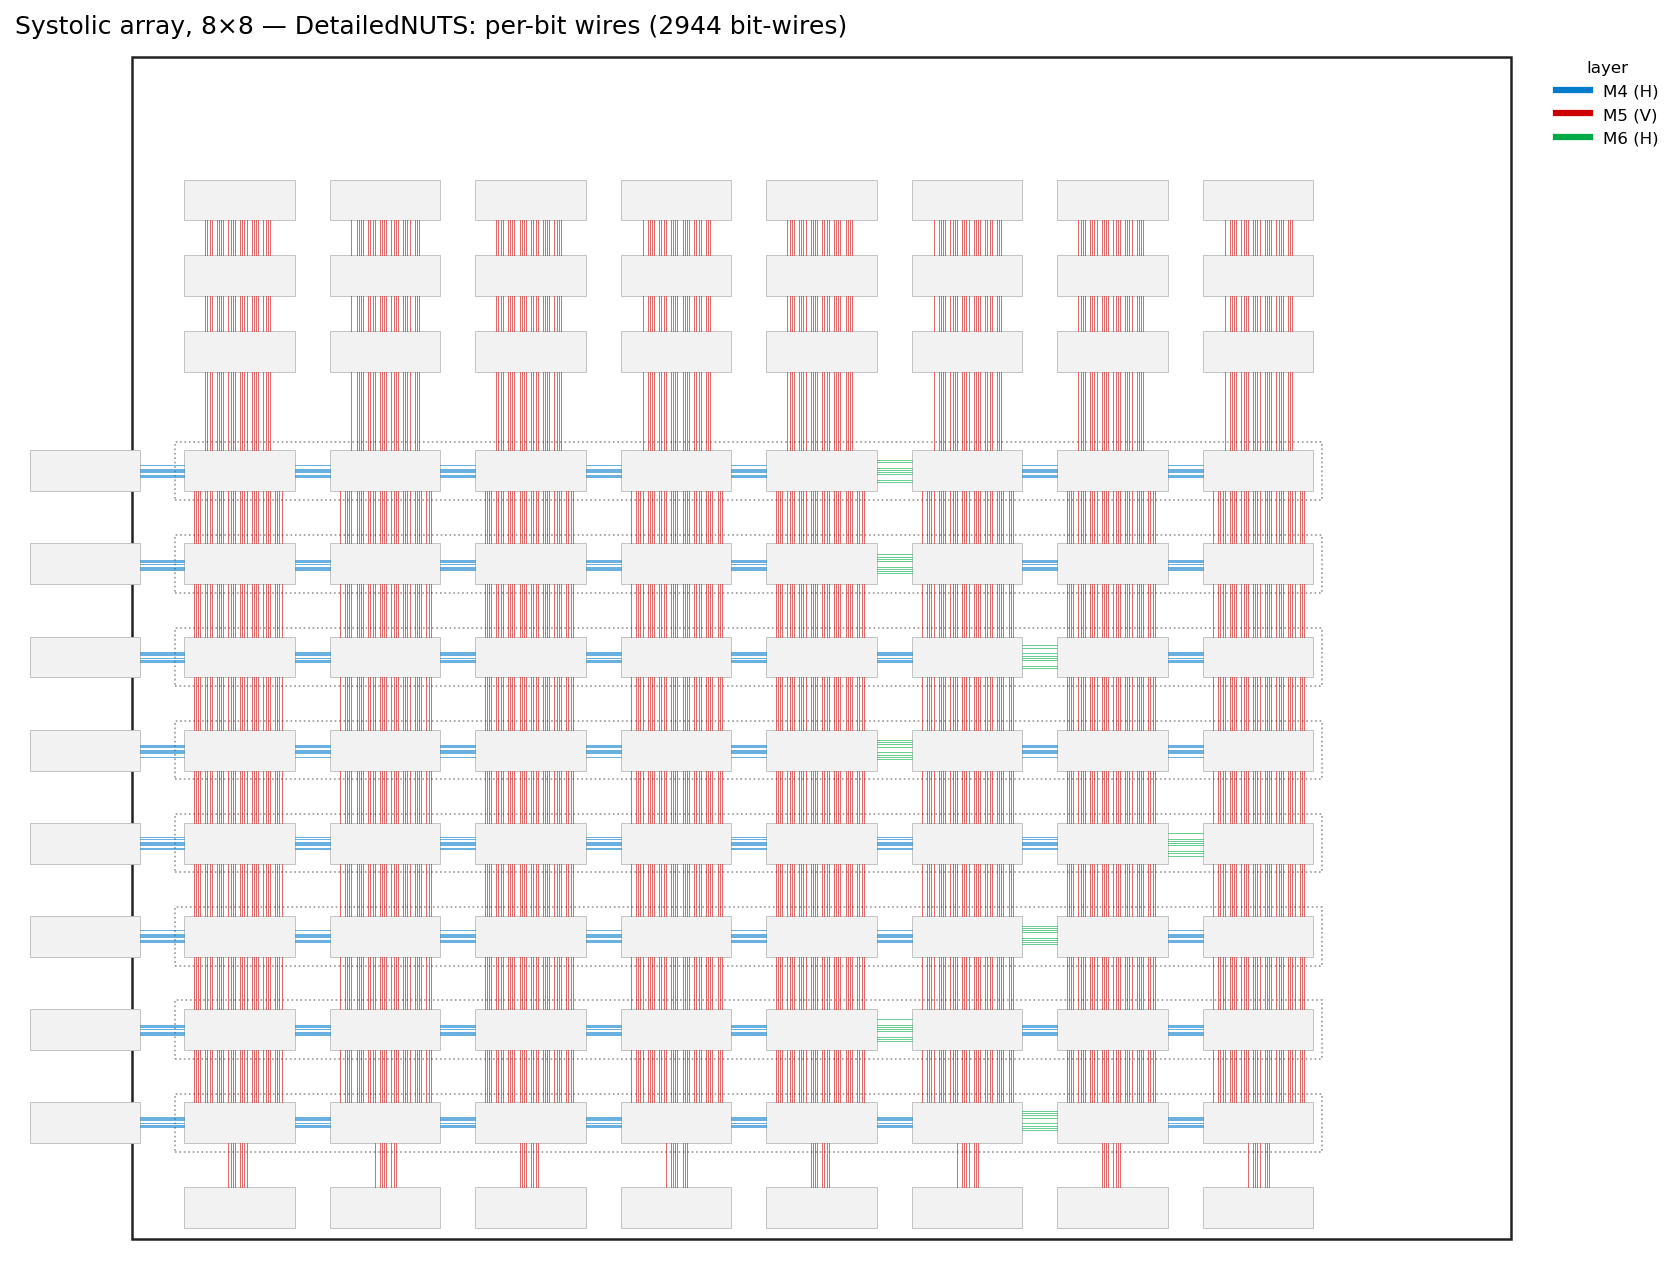
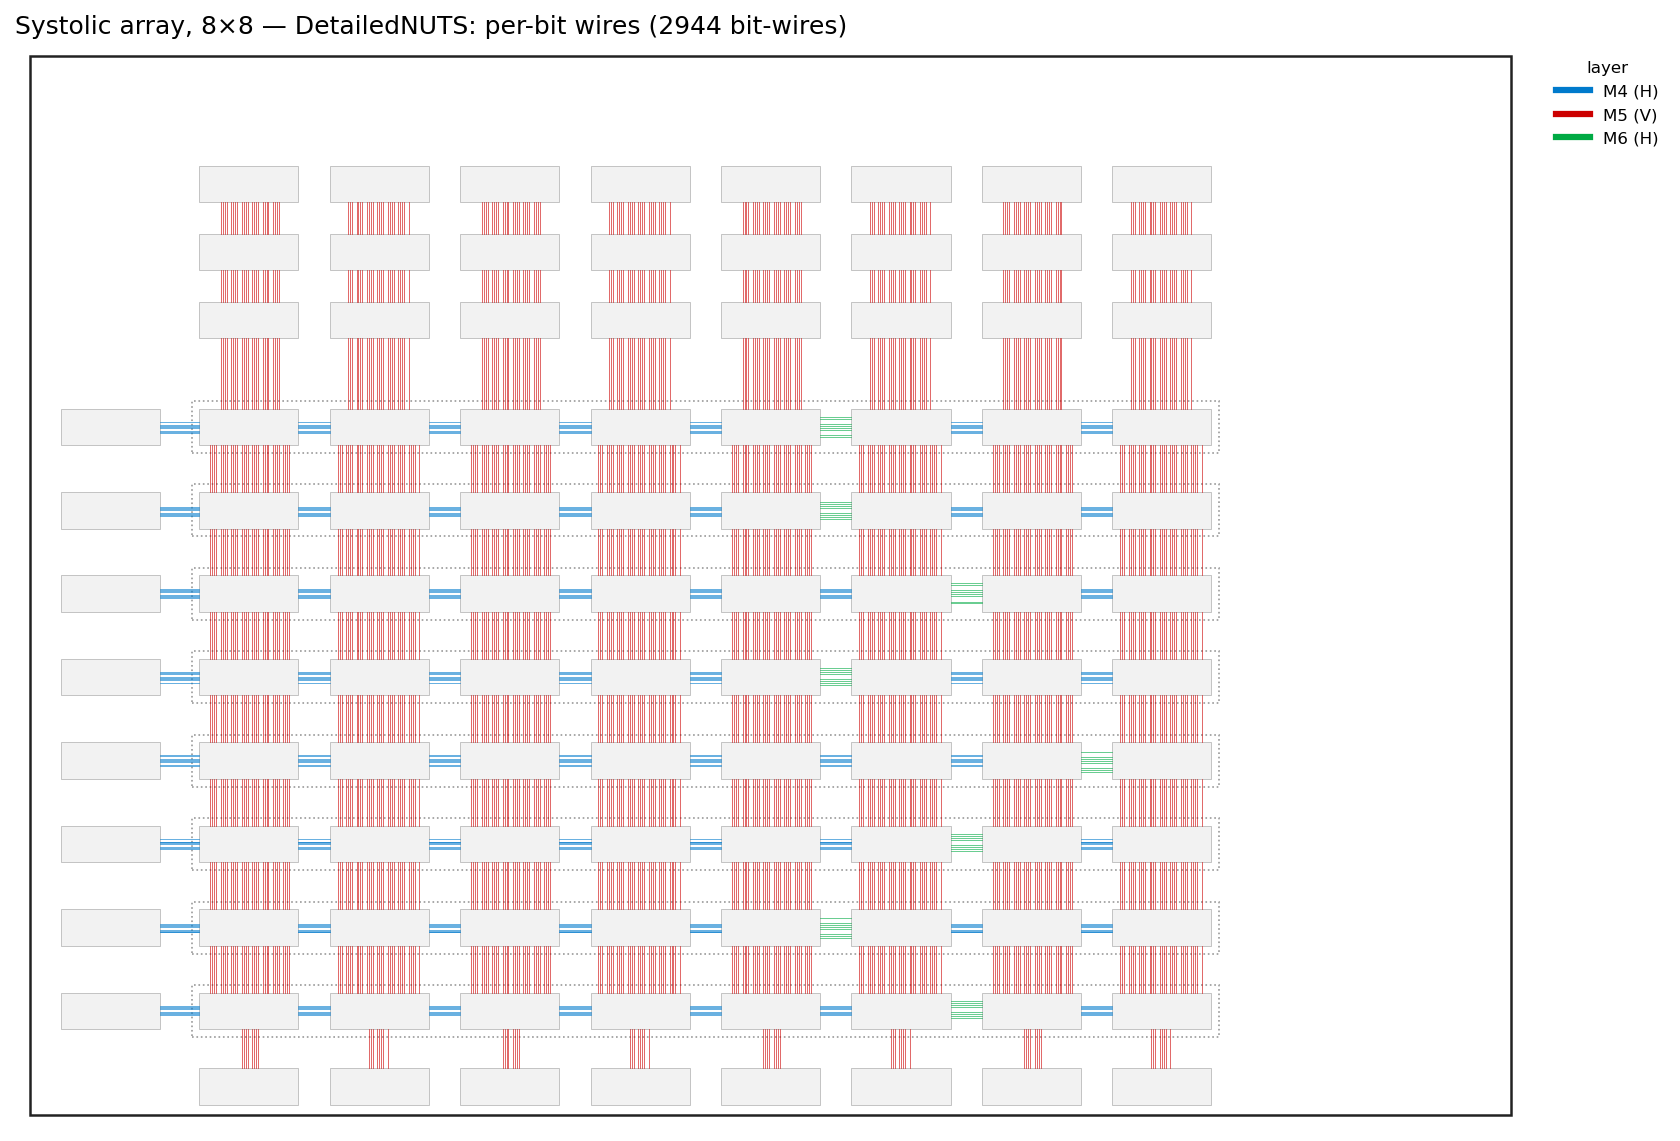
docs/investor_briefing_2026-09: render the array with -X0 248 so the feeder column sits inside the die

Changed region(s): [[0.0619, 0.1534, 0.8976, 0.9816], [0.0, 0.0, 0.8976, 0.0613], [0.9286, 0.0307, 0.9905, 0.1227]]

diff --git a/docs/internal/investor_briefing_2026-09.md b/docs/internal/investor_briefing_2026-09.md
@@ -91,7 +91,7 @@ weight buffers below and accumulators above: 104 blocks joined by 152 buses.
 ![Systolic array floorplan: 64 processing units in 8 rows, feeders on the left, weight buffers below, accumulators above](img/investor_briefing_tpu8_fp.png)
 
 With BUDA's plan: all 2,944 individual wires on real tracks, none
-overlapping, none left unplaced, and the design check clean, in 1.4 s.
+overlapping, none left unplaced, and the design check clean, in 1.5 s.
 
 ![Systolic array after BUDA: 2,944 individual wires, horizontal runs along each row and vertical runs down each column](img/investor_briefing_tpu8_dnuts.png)
 
@@ -110,9 +110,13 @@ check, in 7.7 s end to end.
 ![System-on-chip after BUDA: long horizontal buses between quads on the upper layers, short local wiring inside each cluster](img/investor_briefing_soc8c_dnuts.png)
 
 The four pictures regenerate with `tools/render_design.py` from recordings of
-the two Tcl flows (`tools/tcl2buda.py flow/tcl/tpu.tcl -o tpu8.buda -- 8` and
+the two Tcl flows (`tools/tcl2buda.py flow/tcl/tpu.tcl -o tpu8.buda -- 8 -X0 248` and
 `tools/tcl2buda.py flow/tcl/soc.tcl -o soc8c.buda -- 8 -LAYOUT compact`),
-which also writes the counts quoted here.
+which also writes the counts quoted here.  The array is rendered with a
+wider west margin (`-X0 248`) because the generator's default places the
+feeder column at x = −140, outside its own die (the known emitter quirk
+[librelane_hier_flow.md](librelane_hier_flow.md) §7c records); the routing
+is unchanged by it — the same 197,376 detailed wire length either way.
 
 ## Results
 
